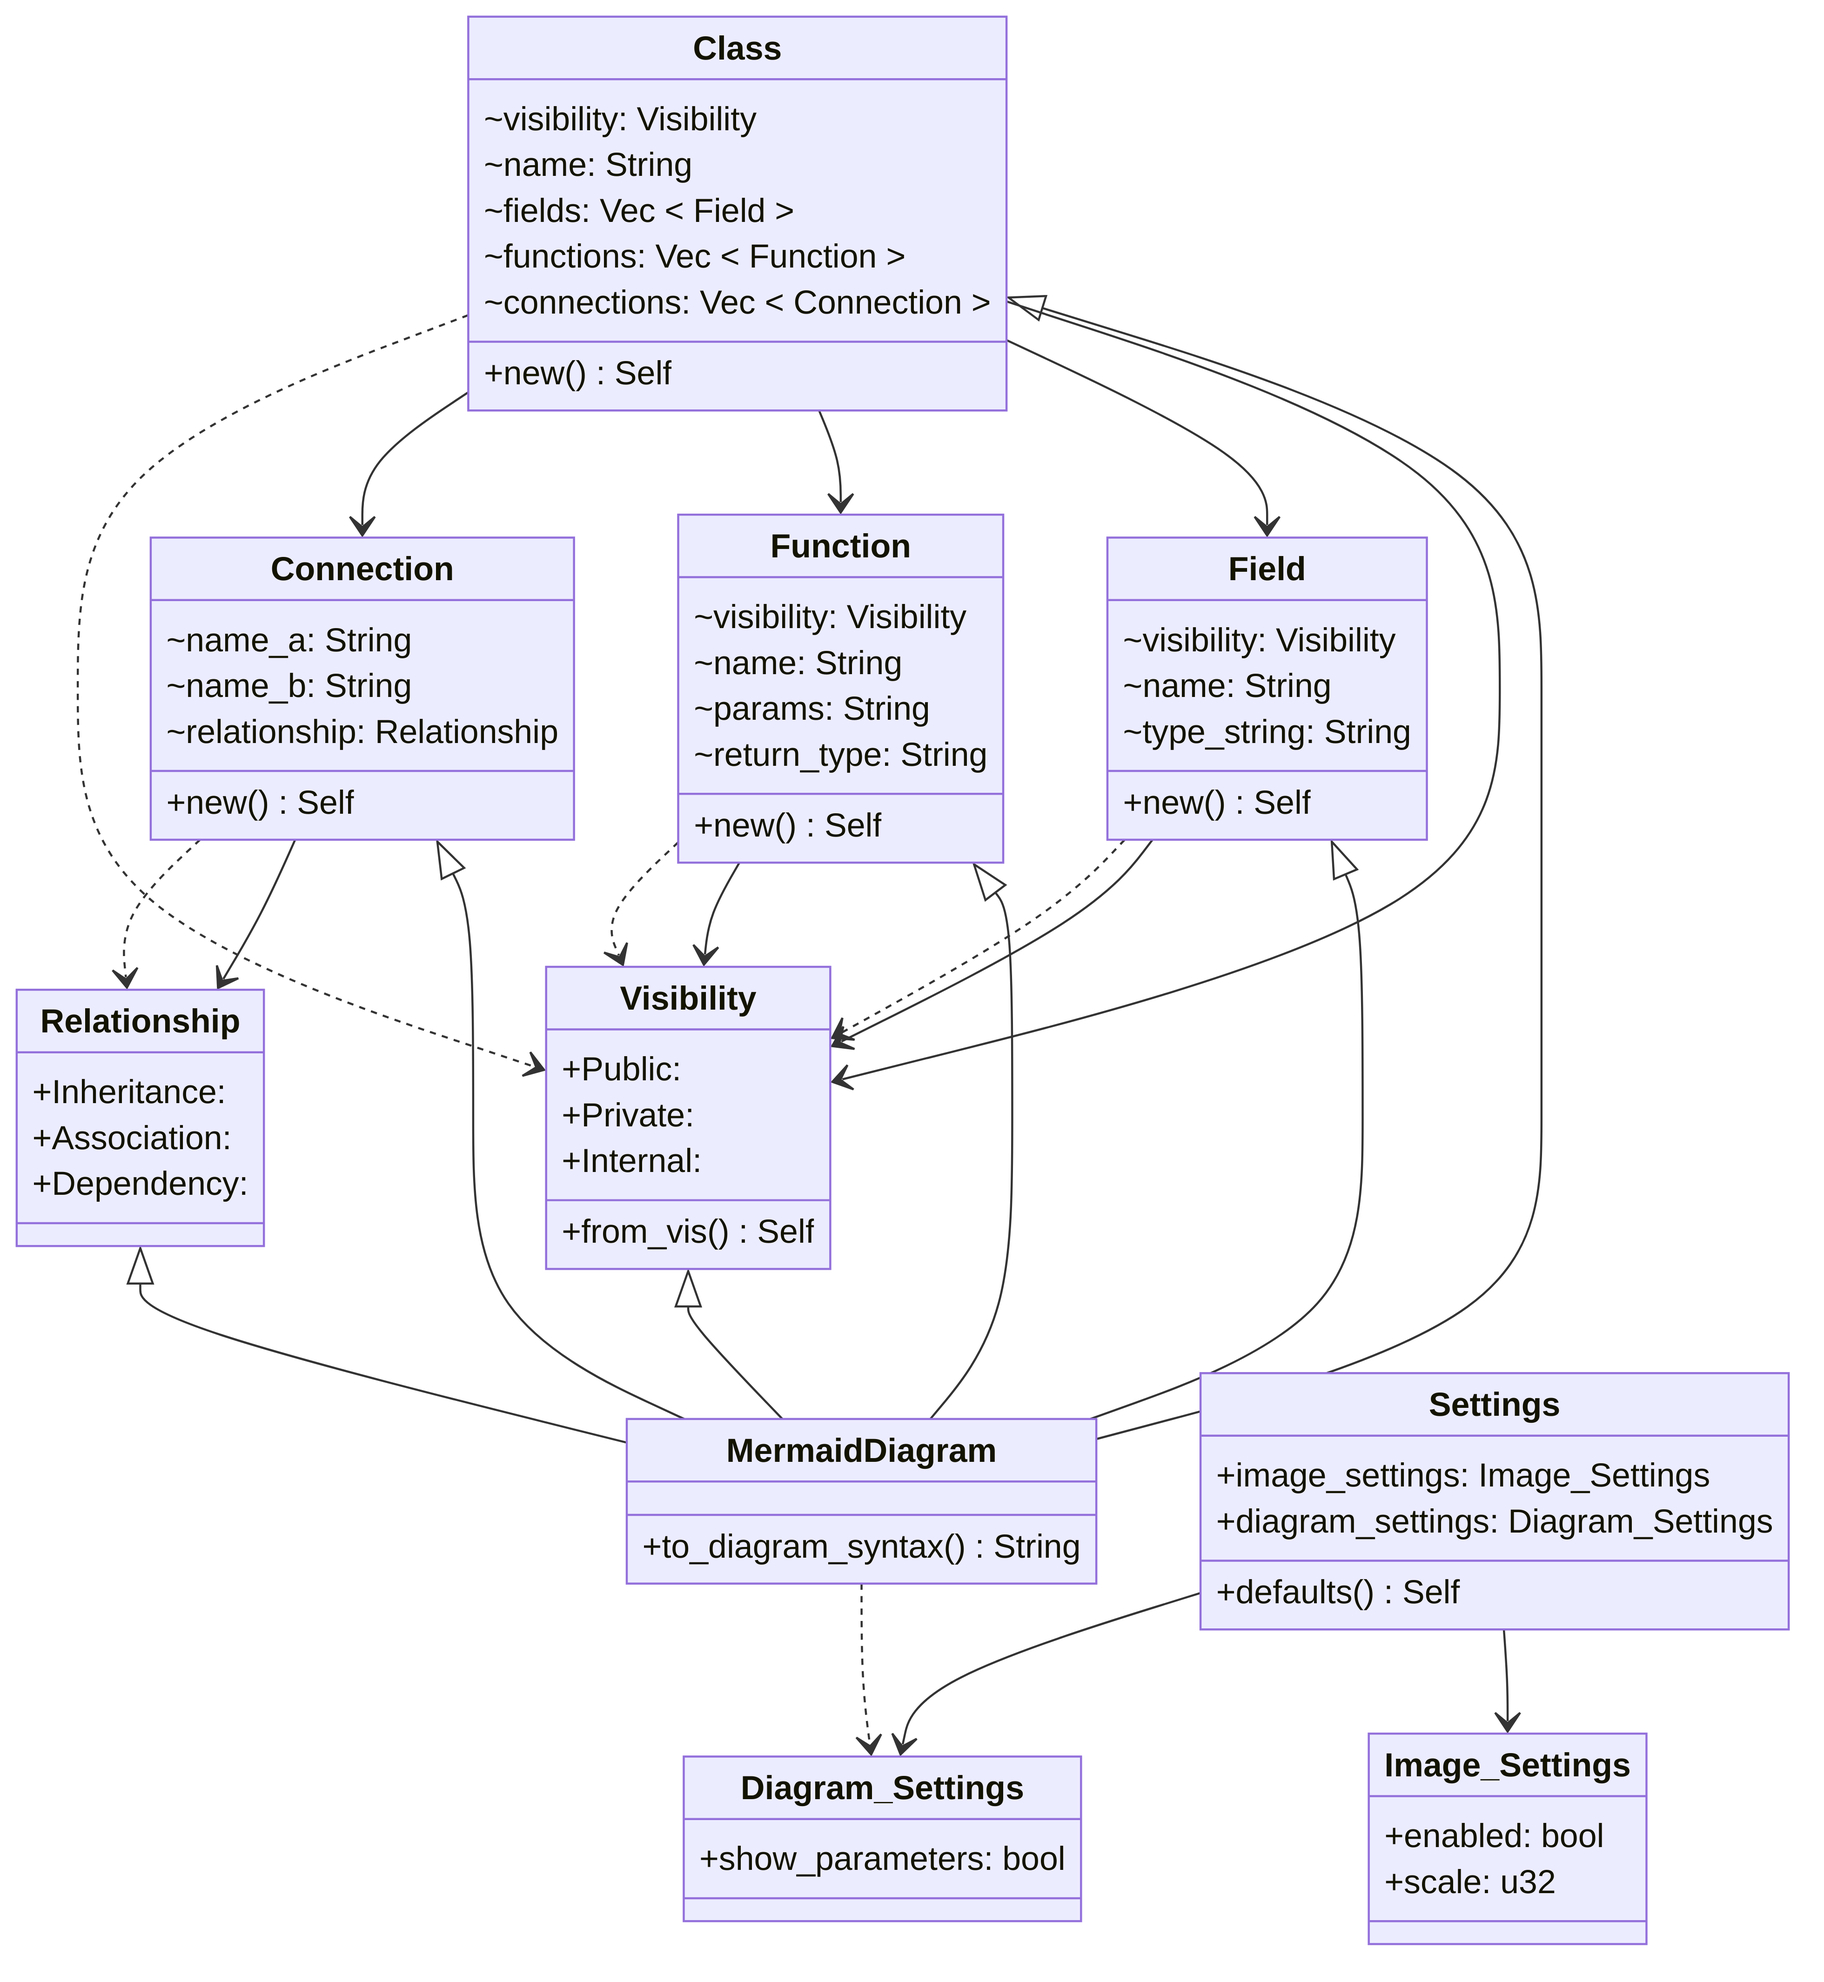
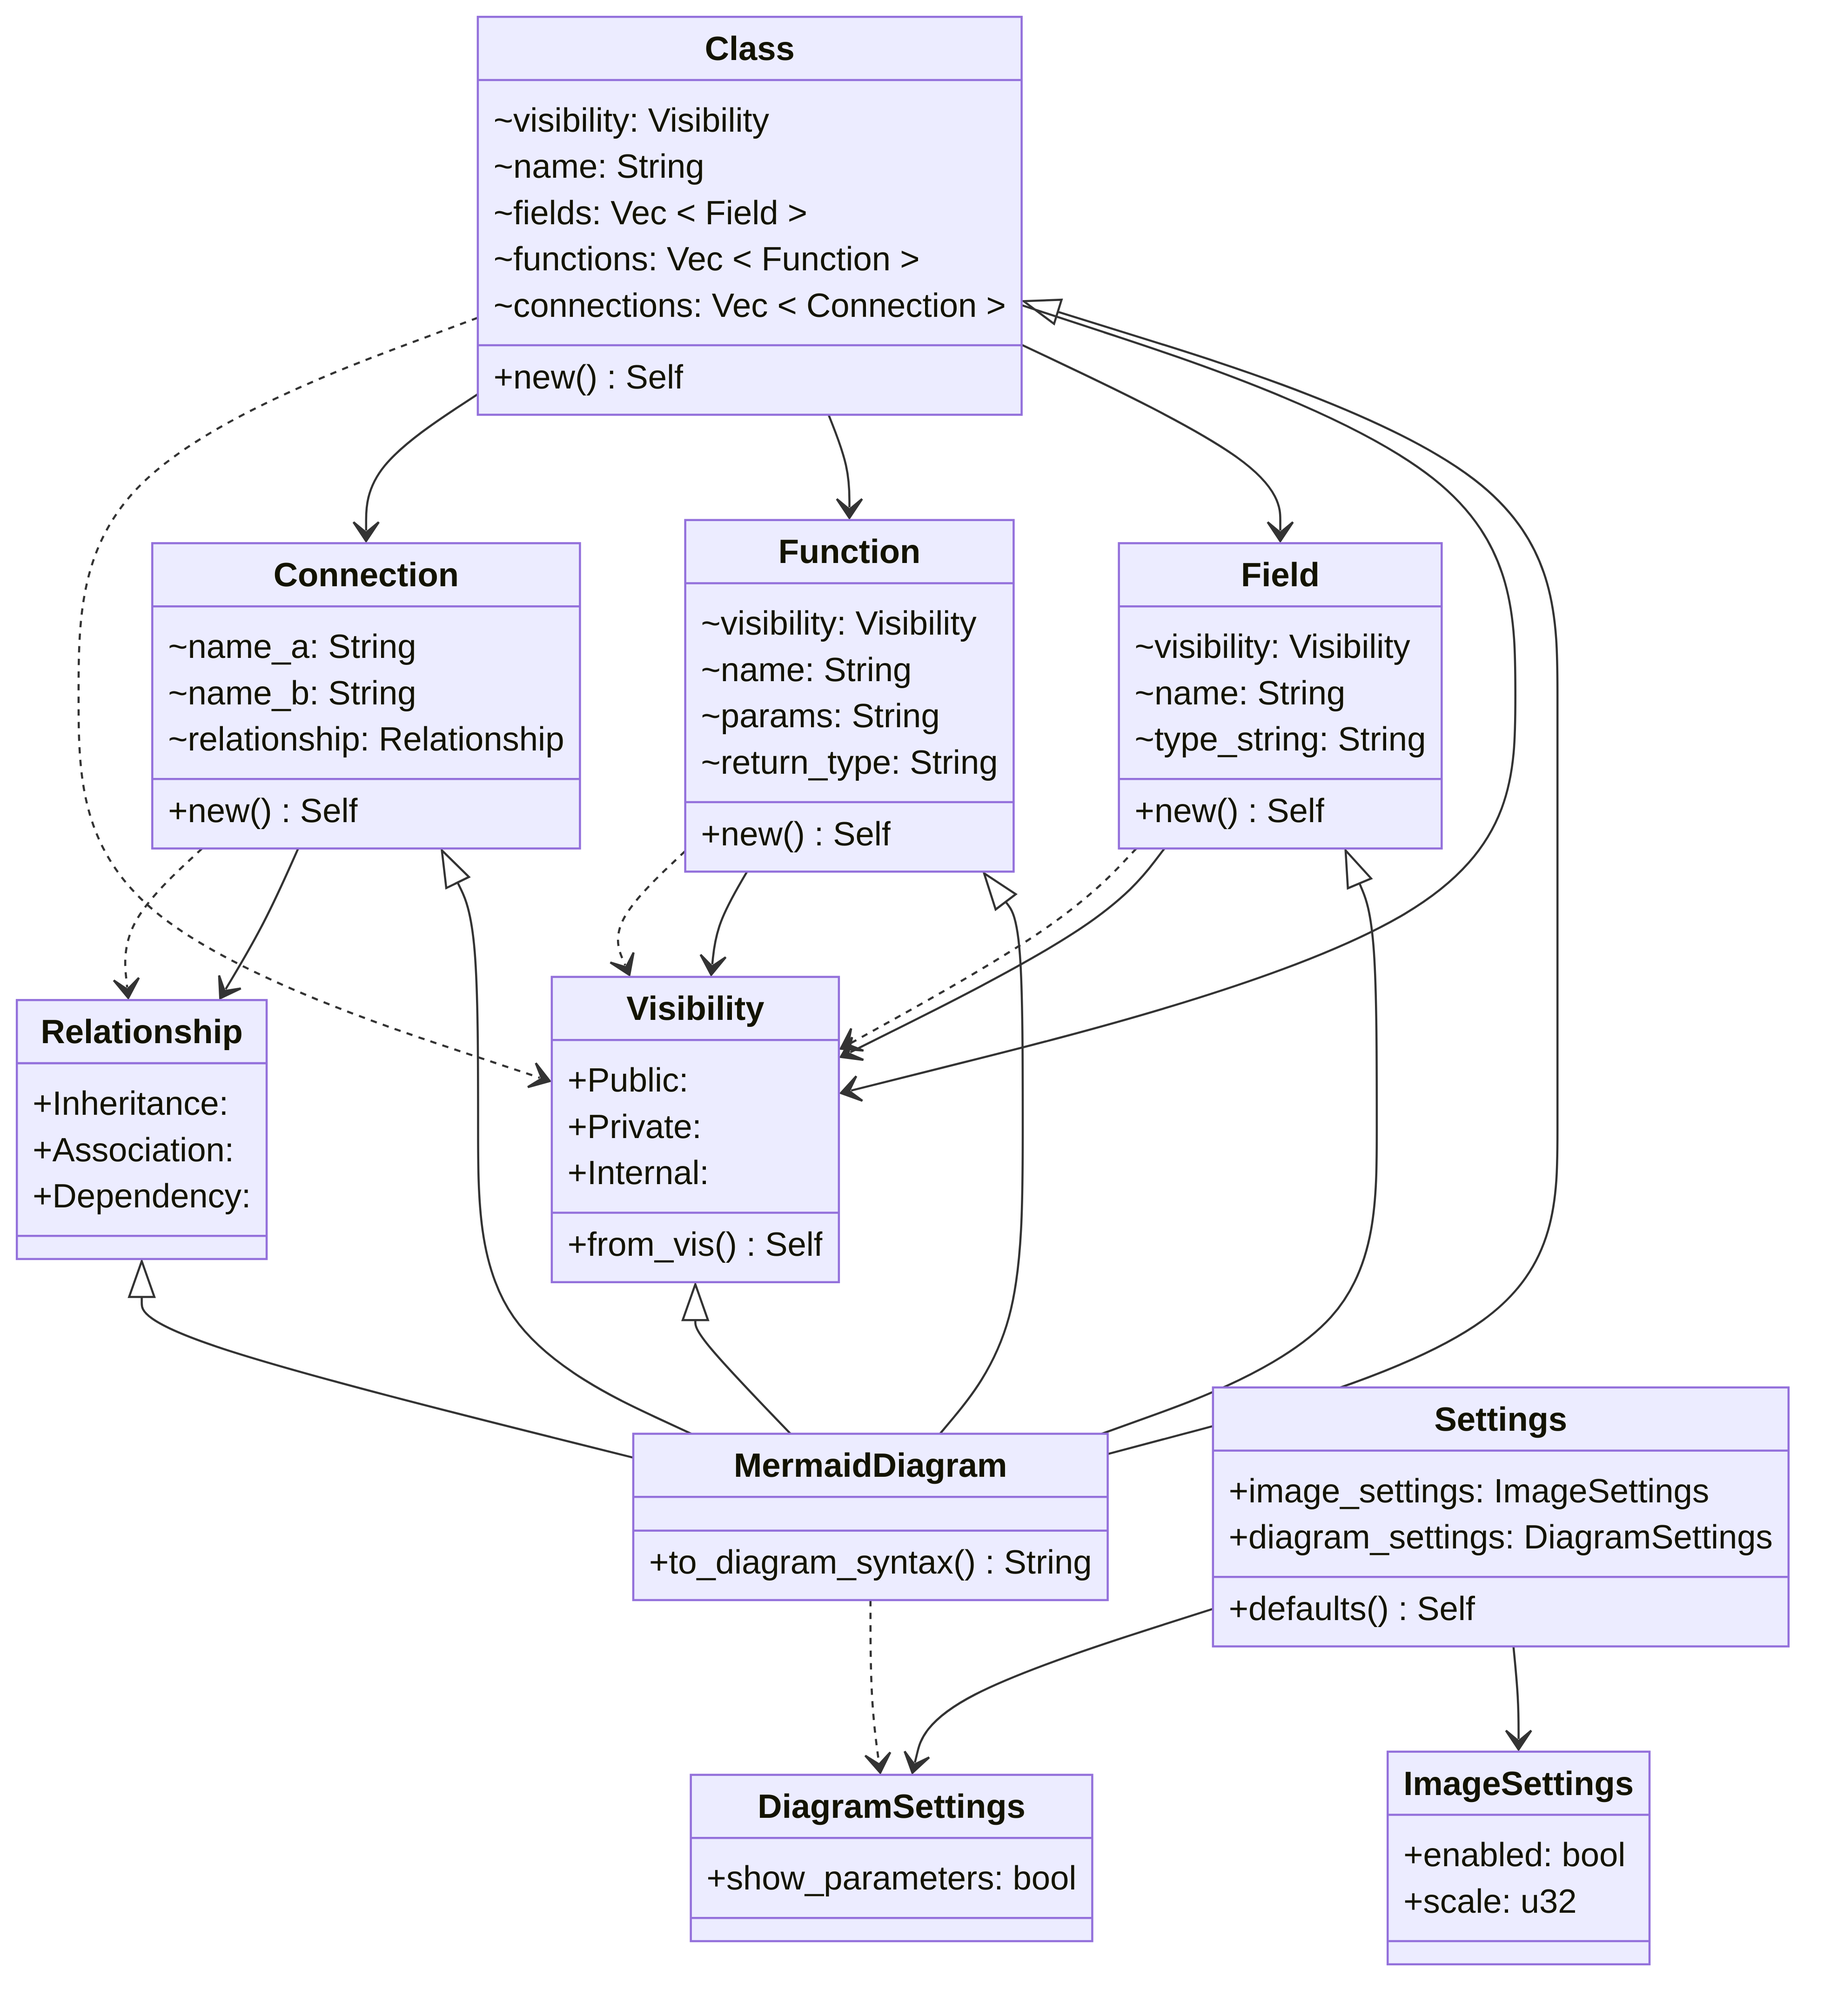
struct rename

diff --git a/src/mermaid_diagram.rs b/src/mermaid_diagram.rs
@@ -1,11 +1,11 @@
-use crate::{class_diagram_model::*, settings::Diagram_Settings};
+use crate::{class_diagram_model::*, settings::DiagramSettings};
 
 pub trait MermaidDiagram {
-    fn to_diagram_syntax(&self, settings: &Diagram_Settings) -> String;
+    fn to_diagram_syntax(&self, settings: &DiagramSettings) -> String;
 }
 
 impl MermaidDiagram for Class {
-    fn to_diagram_syntax(&self, settings: &Diagram_Settings) -> String {
+    fn to_diagram_syntax(&self, settings: &DiagramSettings) -> String {
         let mut res = "".to_string();
         let header = format!("class {} {{\n", self.name);
         res.push_str(header.as_str());
@@ -32,7 +32,7 @@ impl MermaidDiagram for Class {
 }
 
 impl MermaidDiagram for Function {
-    fn to_diagram_syntax(&self, settings: &Diagram_Settings) -> String {
+    fn to_diagram_syntax(&self, settings: &DiagramSettings) -> String {
         let mut parameters = String::new();
         if settings.show_parameters {
             parameters = self.params.clone();
@@ -48,7 +48,7 @@ impl MermaidDiagram for Function {
 }
 
 impl MermaidDiagram for Field {
-    fn to_diagram_syntax(&self, settings: &Diagram_Settings) -> String {
+    fn to_diagram_syntax(&self, settings: &DiagramSettings) -> String {
         format!(
             "{}{}: {}",
             self.visibility.to_diagram_syntax(settings),
@@ -59,7 +59,7 @@ impl MermaidDiagram for Field {
 }
 
 impl MermaidDiagram for Visibility {
-    fn to_diagram_syntax(&self, settings: &Diagram_Settings) -> String {
+    fn to_diagram_syntax(&self, settings: &DiagramSettings) -> String {
         match self {
             Visibility::Public => "+".to_string(),
             Visibility::Internal => "~".to_string(),
@@ -69,7 +69,7 @@ impl MermaidDiagram for Visibility {
 }
 
 impl MermaidDiagram for Connection {
-    fn to_diagram_syntax(&self, settings: &Diagram_Settings) -> String {
+    fn to_diagram_syntax(&self, settings: &DiagramSettings) -> String {
         format!(
             "{} {} {}",
             self.name_a,
@@ -80,7 +80,7 @@ impl MermaidDiagram for Connection {
 }
 
 impl MermaidDiagram for Relationship {
-    fn to_diagram_syntax(&self, settings: &Diagram_Settings) -> String {
+    fn to_diagram_syntax(&self, settings: &DiagramSettings) -> String {
         match self {
             Relationship::Inheritance => "<|--".to_string(),
             Relationship::Association => "-->".to_string(),

diff --git a/src/settings.rs b/src/settings.rs
@@ -1,25 +1,25 @@
 pub struct Settings {
-    pub image_settings: Image_Settings,
-    pub diagram_settings: Diagram_Settings,
+    pub image_settings: ImageSettings,
+    pub diagram_settings: DiagramSettings,
 }
 
-pub struct Image_Settings {
+pub struct ImageSettings {
     pub enabled: bool,
     pub scale: u32,
 }
 
-pub struct Diagram_Settings {
+pub struct DiagramSettings {
     pub show_parameters: bool,
 }
 
 impl Settings {
     pub fn defaults() -> Self {
         Self {
-            image_settings: Image_Settings {
+            image_settings: ImageSettings {
                 enabled: true,
                 scale: 5,
             },
-            diagram_settings: Diagram_Settings {
+            diagram_settings: DiagramSettings {
                 show_parameters: false,
             },
         }
